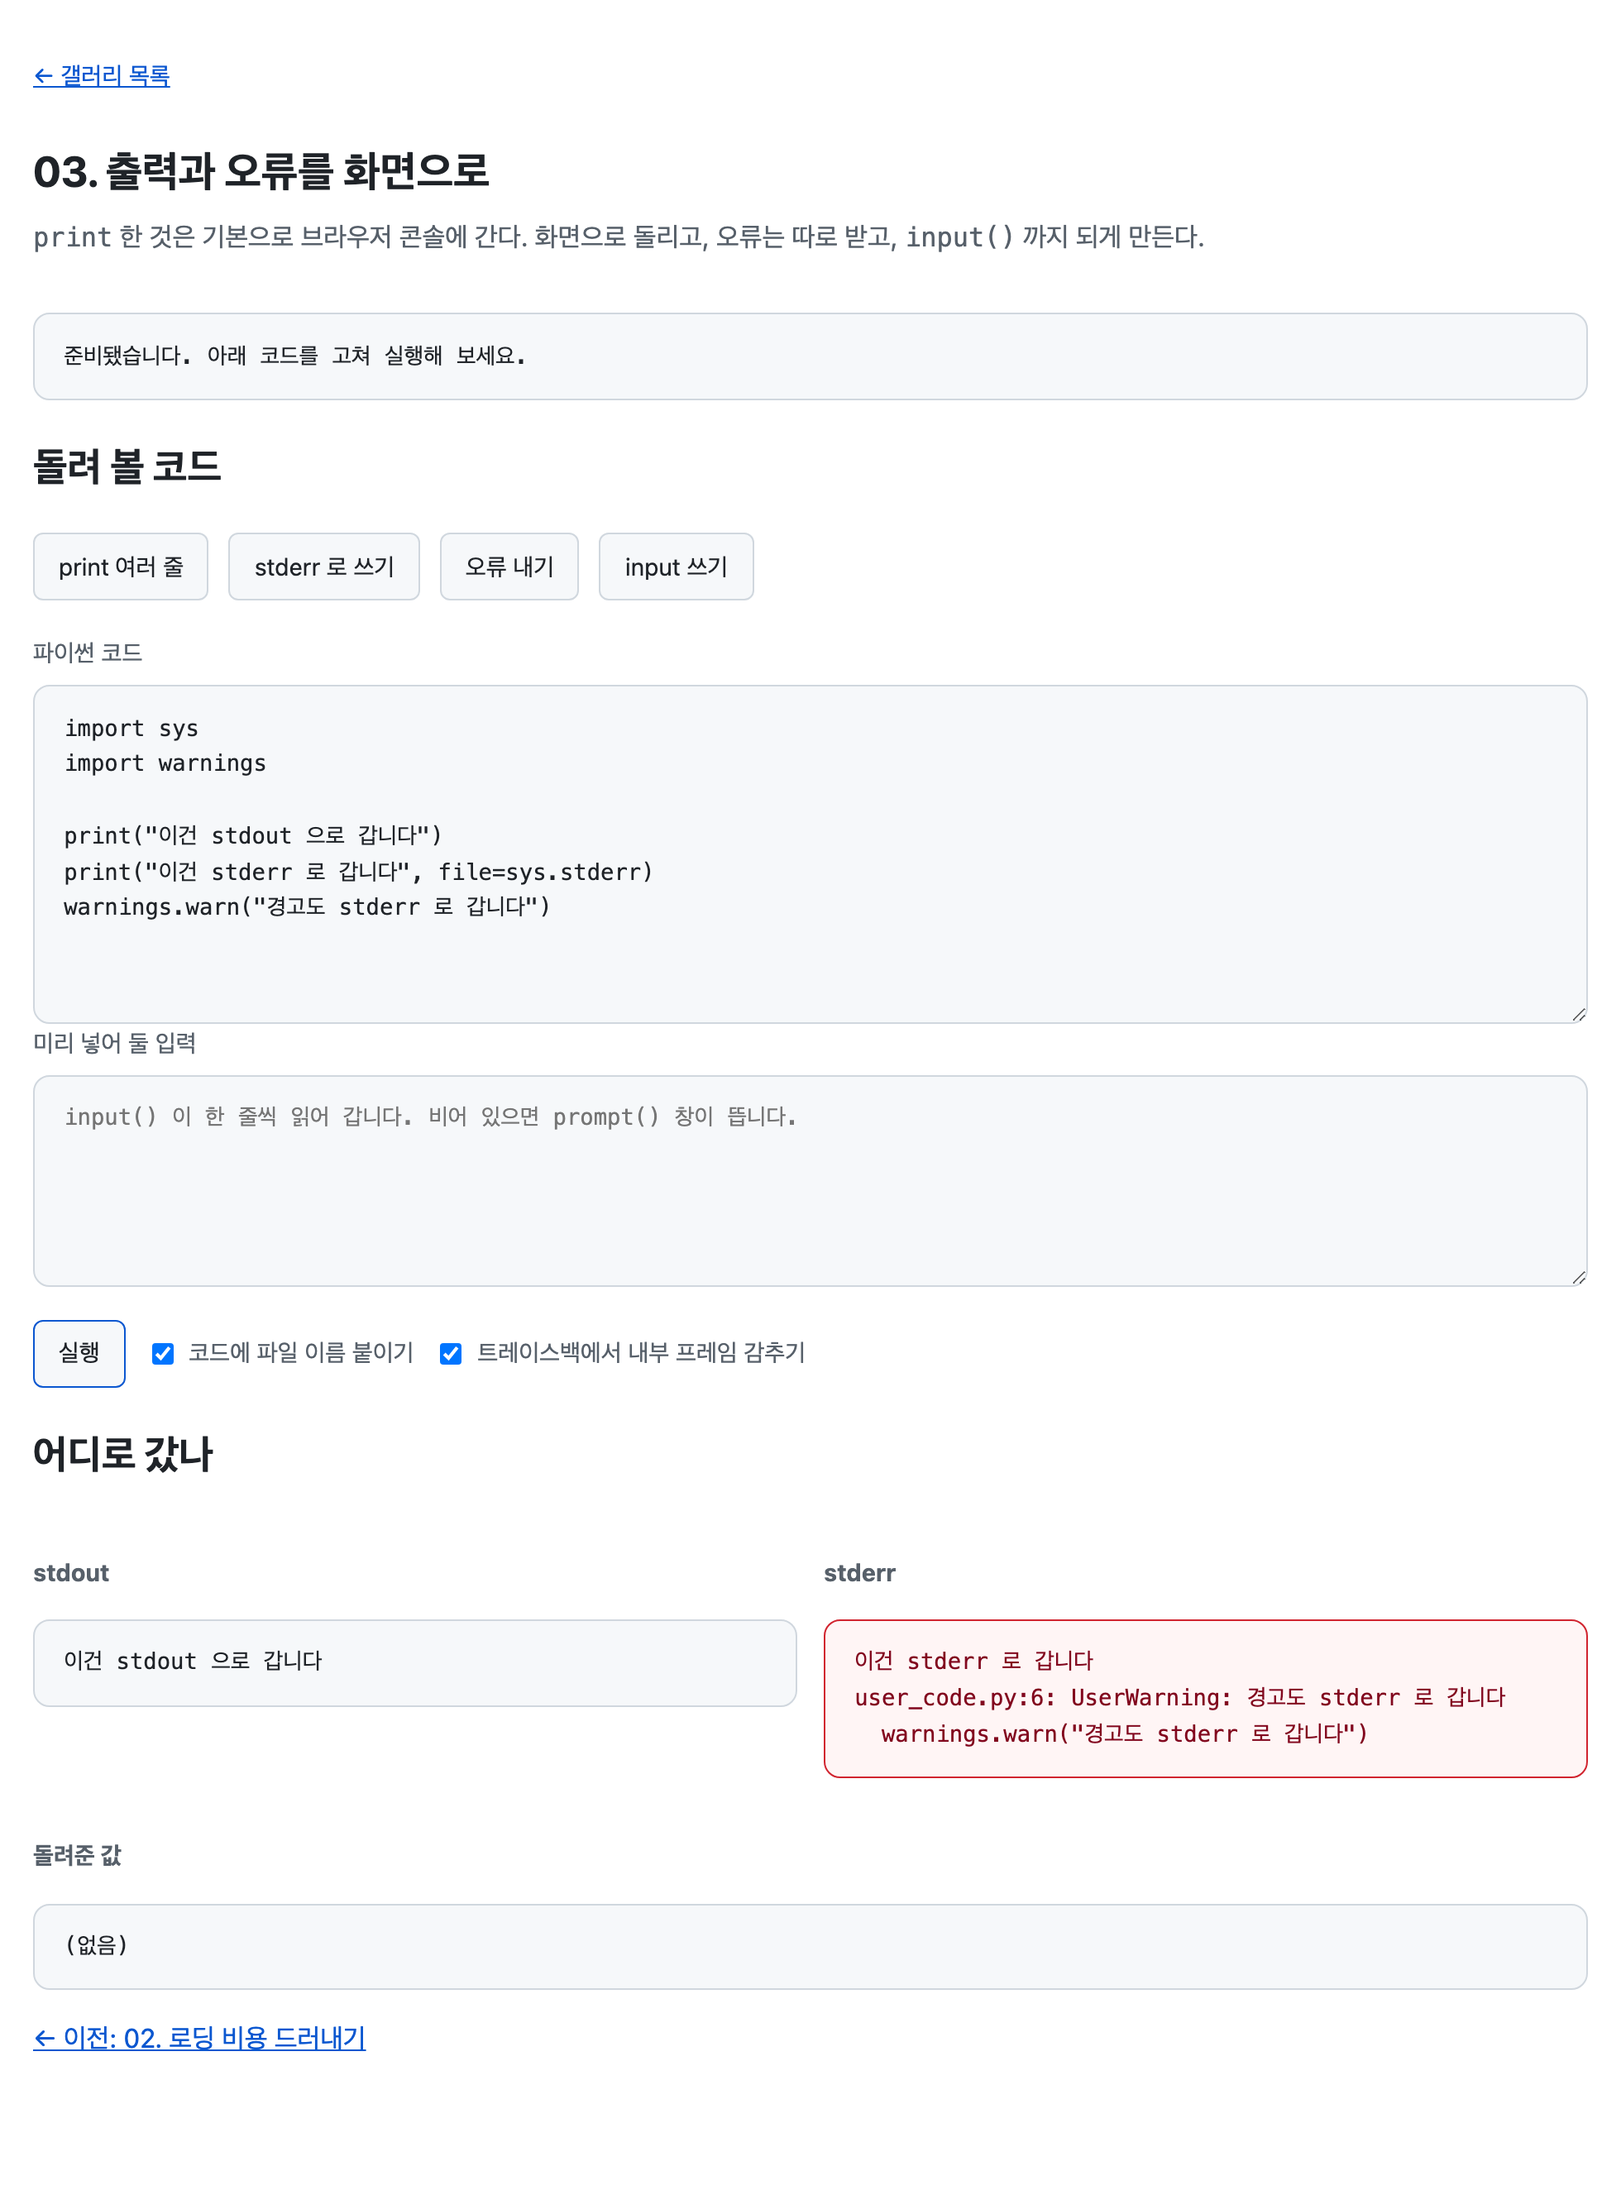
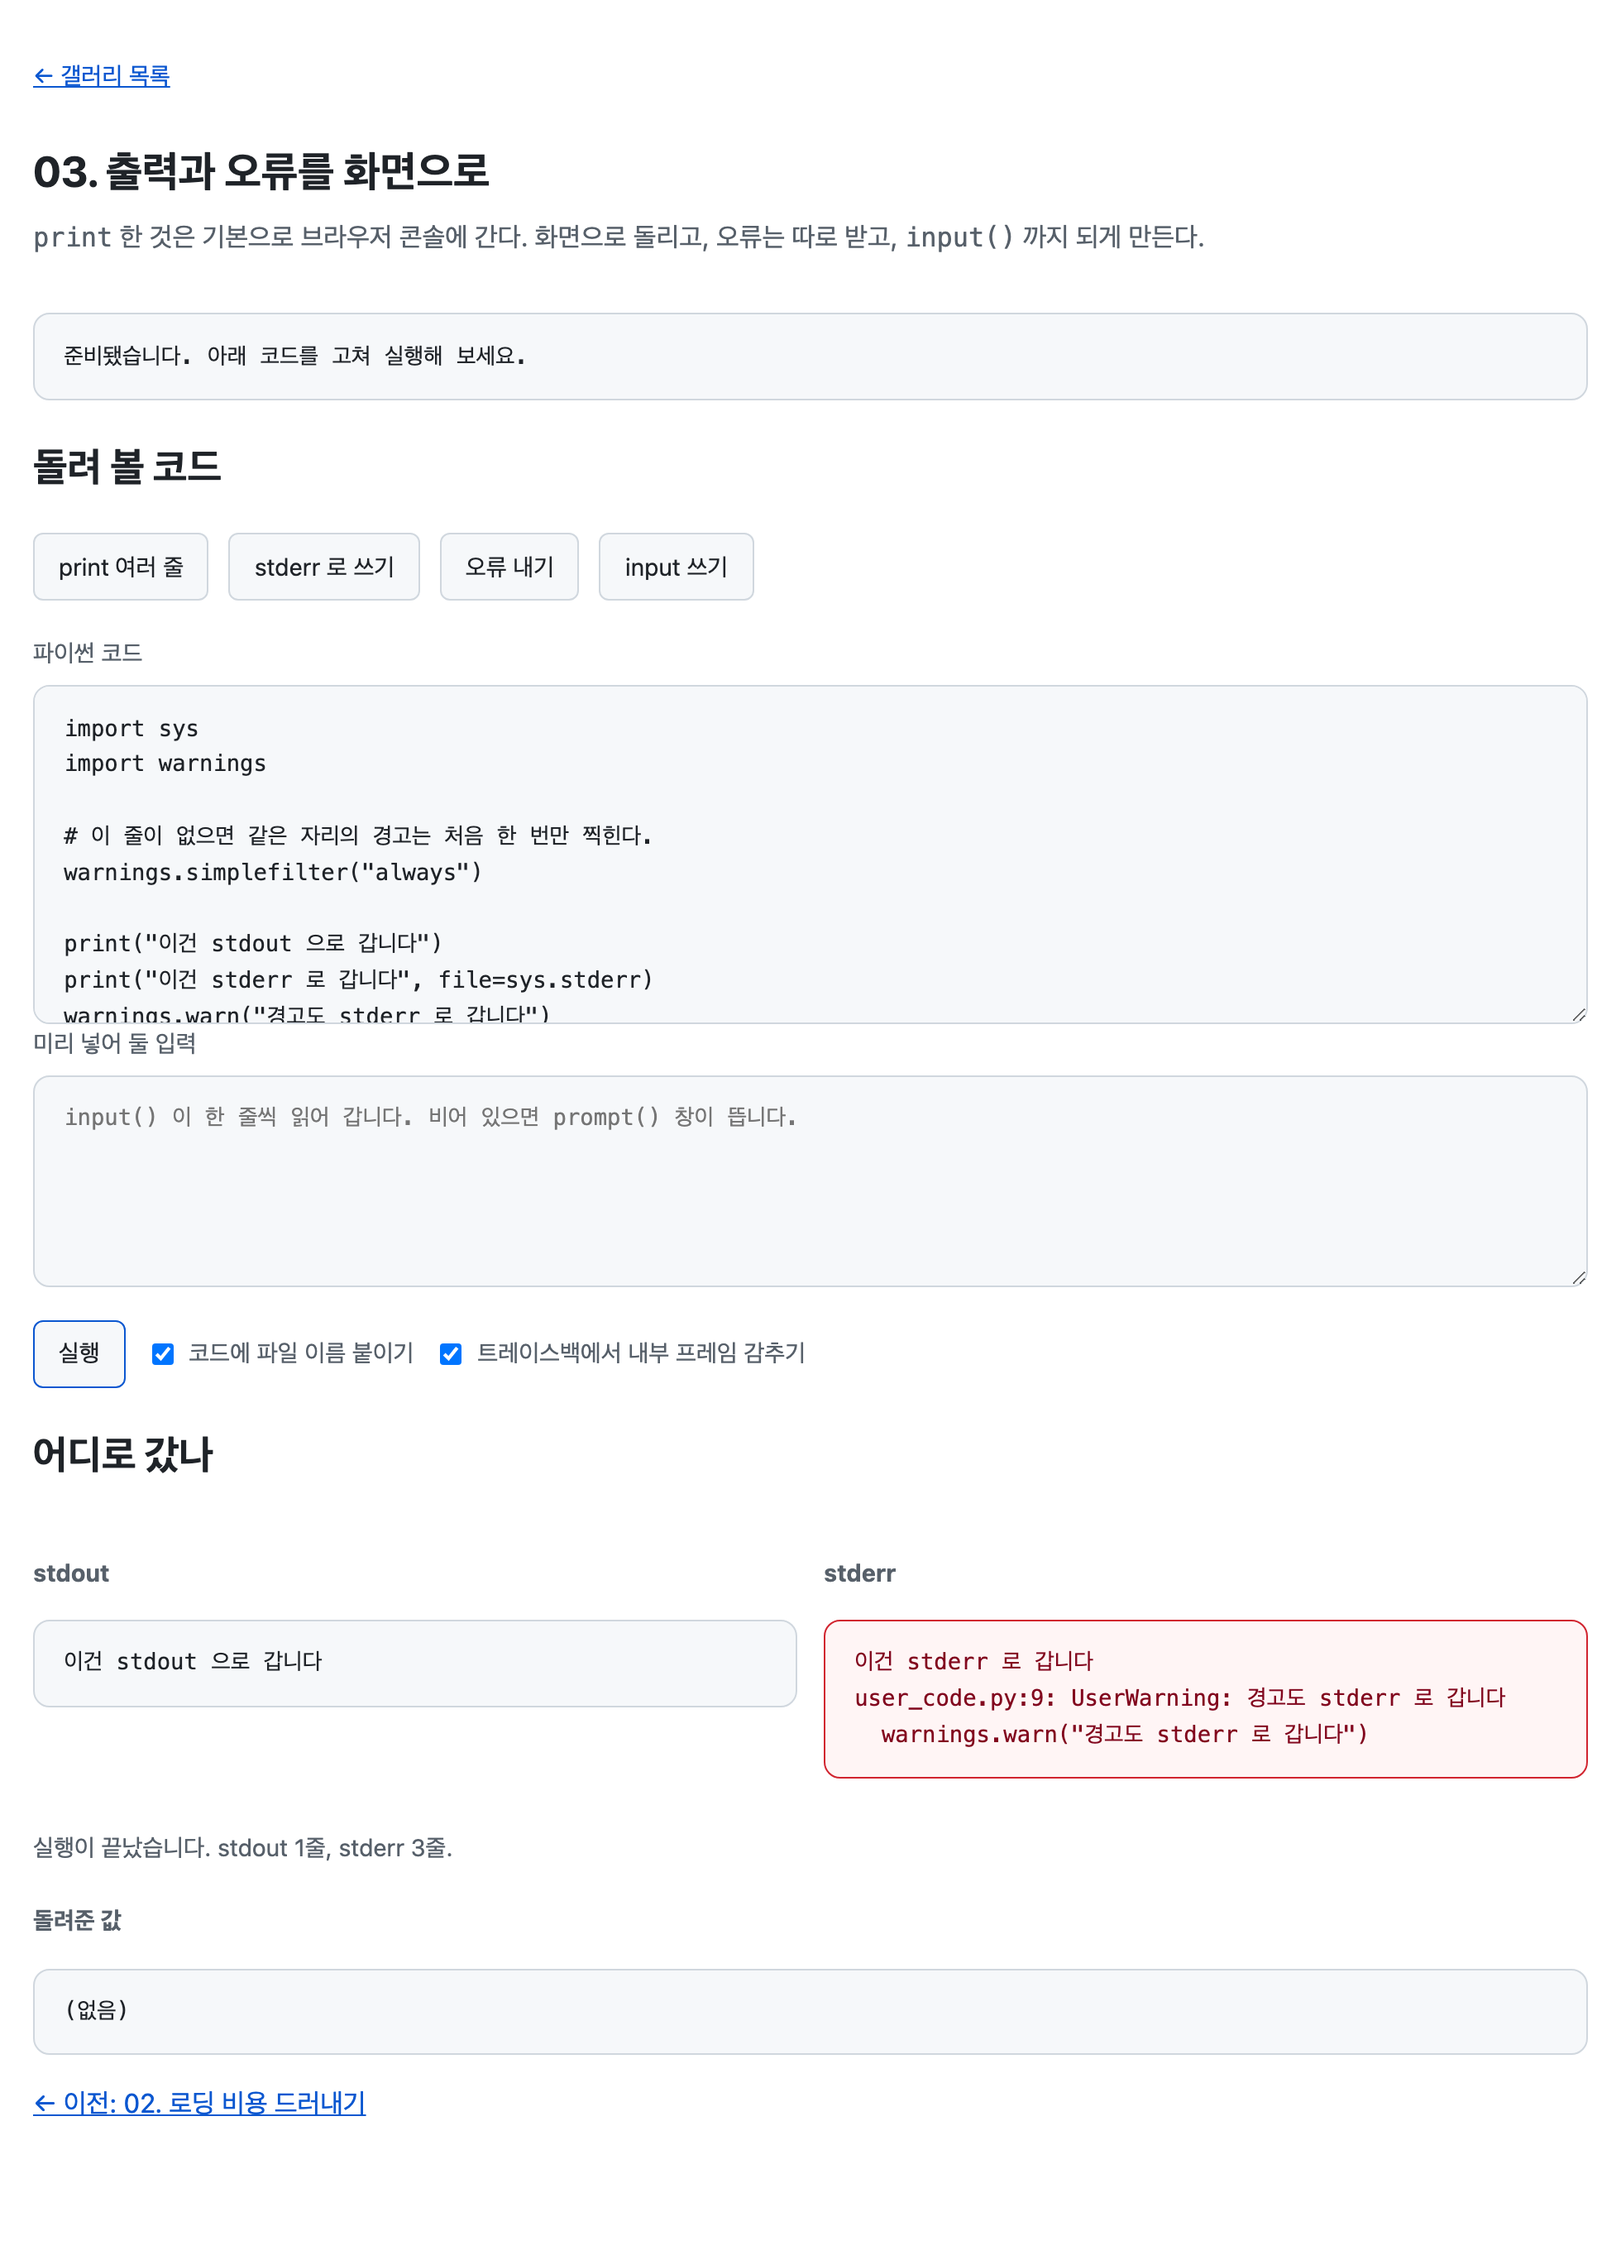
feat(03-stdout-and-errors): 출력과 오류를 화면으로
print 가 콘솔로 가던 것을 화면으로 돌리고, stdout 과 stderr 를 나란히 놓아 어디로 갔는지 보이게 한다. filename 을 주고 안 주고에 따라 트레이스백이 얼마나 달라지는지 토글로 비교한다.

stdin 콜백이 동기라서 사용자에게 물어보고 기다릴 수 없다는 것이 이 예제의 핵심이다. 값을 미리 받아 두거나 브라우저를 멈추는 prompt 를 쓰는 것 말고 길이 없다. 제대로 하려면 워커와 Atomics.wait 이 필요하고 그건 17번과 19번의 주제다.

트레이스백을 다듬을 때 들여쓰기를 보는 이유는 마지막 프레임이 내부 프레임일 때 오류 메시지 자체를 삼키지 않기 위해서다. 소스에 널 바이트를 넣으면 컴파일이 Pyodide 안에서 실패해 사용자 프레임이 하나도 없는데, 그때 무슨 오류인지가 사라진다.

Closes #7

diff --git a/galleries/03-stdout-and-errors/src/main.js b/galleries/03-stdout-and-errors/src/main.js
@@ -19,6 +19,9 @@ print("끝났습니다")
   stderr: `import sys
 import warnings
 
+# 이 줄이 없으면 같은 자리의 경고는 처음 한 번만 찍힌다.
+warnings.simplefilter("always")
+
 print("이건 stdout 으로 갑니다")
 print("이건 stderr 로 갑니다", file=sys.stderr)
 warnings.warn("경고도 stderr 로 갑니다")
@@ -42,6 +45,7 @@ len(name)
 };
 
 const bootBox = document.querySelector('#boot');
+const summary = document.querySelector('#summary');
 const codeInput = document.querySelector('#code');
 const stdinInput = document.querySelector('#stdin');
 const runButton = document.querySelector('#run');
@@ -79,8 +83,10 @@ async function start() {
   samples.addEventListener('click', pickSample);
   runButton.addEventListener('click', () => run(pyodide));
   runButton.disabled = false;
+  codeInput.disabled = false;
 
-  codeInput.value = SAMPLES.print;
+  // 부팅하는 몇 초 동안 사용자가 이미 뭔가 쳤을 수 있다. 그걸 덮어쓰지 않는다.
+  if (codeInput.value.trim() === '') codeInput.value = SAMPLES.print;
   run(pyodide);
 }
 
@@ -102,7 +108,9 @@ function connectStreams(pyodide) {
 }
 
 function append(box, line) {
-  box.textContent += `${line}\n`;
+  // textContent += 는 줄마다 문자열 전체를 다시 만든다. 출력이 길어지면 제곱으로 느려진다.
+  box.append(`${line}\n`);
+  box.scrollTop = box.scrollHeight;
 }
 
 function pickSample(event) {
@@ -113,29 +121,52 @@ function pickSample(event) {
 }
 
 function run(pyodide) {
-  outBox.textContent = '';
-  errBox.textContent = '';
+  // 지우기 전에 떨군다. 지난 실행이 개행 없이 끝냈으면 그 조각이 여기서 흘러나오는데,
+  // 곧바로 지워지므로 이번 출력 앞에 유령처럼 붙는 일이 없다.
+  flushLeftover(pyodide);
+
+  outBox.replaceChildren();
+  errBox.replaceChildren();
   valueBox.replaceChildren();
 
-  pending = stdinInput.value.split('\n').filter((line) => line !== '');
+  // 마지막 개행만 뗀다. 중간의 빈 줄은 입력값으로 쓸 수 있어야 한다.
+  const typed = stdinInput.value.replace(/\n$/, '');
+  pending = typed === '' ? [] : typed.split('\n');
 
-  // 이름을 주면 트레이스백에 소스 줄이 나온다. 안 주면 <exec> 로 잡혀서 줄만 나온다.
-  // 꺾쇠로 감싼 이름은 파일이 아니라는 뜻이라 파이썬이 소스를 찾지 않는다.
+  // 이름을 주면 Pyodide 가 그 이름으로 소스를 linecache 에 등록해 둔다.
+  // 트레이스백은 거기서 줄을 꺼내 온다. 안 주면 <exec> 로 잡히고 등록도 건너뛴다.
   const options = namedToggle.checked ? { filename: 'user_code.py' } : {};
 
   let value;
   try {
     value = pyodide.runPython(codeInput.value, options);
+    valueBox.textContent = value === undefined ? '(없음)' : String(value);
   } catch (error) {
     showTraceback(error);
-    return;
-  }
-
-  try {
-    valueBox.textContent = value === undefined ? '(없음)' : String(value);
   } finally {
     value?.destroy?.();
+    announce();
   }
+}
+
+/**
+ * 스크린 리더에는 줄마다 읽어 주는 대신 끝나고 한 번만 알린다.
+ * 출력이 몇만 줄이 될 수 있어서, 스트림 칸 자체를 live region 으로 두면 그만큼 읽는다.
+ */
+function announce() {
+  const count = (box) => box.textContent.split('\n').filter(Boolean).length;
+  summary.textContent = `실행이 끝났습니다. stdout ${count(outBox)}줄, stderr ${count(errBox)}줄.`;
+}
+
+/**
+ * 개행 없이 남은 출력 조각을 흘려보낸다.
+ *
+ * batched 는 개행에서만 흘려보내므로 print("a", end="") 로 끝나면 "a" 가 버퍼에 남는다.
+ * setStdout 을 다시 걸어도 sys.stdout.flush() 를 불러도 비워지지 않는다.
+ * 개행을 하나 찍어 주는 것이 유일한 방법이다.
+ */
+function flushLeftover(pyodide) {
+  pyodide.runPython('print()');
 }
 
 /**
@@ -146,8 +177,8 @@ function run(pyodide) {
  */
 function showTraceback(error) {
   const text = trimToggle.checked ? trimInternalFrames(error.message) : error.message;
-  const box = renderPythonError(errBox, text);
-  box.textContent = `${text}\n\n예외 종류: ${error.type ?? '(알 수 없음)'}`;
+  renderPythonError(errBox, { message: `${text}\n\n예외 종류: ${error.type ?? '(알 수 없음)'}` });
+  valueBox.textContent = '(오류가 나서 값이 없습니다)';
 }
 
 /**
@@ -157,21 +188,27 @@ function showTraceback(error) {
  * 붙는다. 남의 코드 이야기라 읽는 사람에게는 잡음이다.
  */
 function trimInternalFrames(message) {
-  const lines = message.split('\n');
   const kept = [];
   let skipping = false;
 
-  for (const line of lines) {
+  for (const line of message.split('\n')) {
     const frame = line.match(/^ {2}File "([^"]+)"/);
     if (frame) {
       skipping = frame[1].includes('_pyodide/_base.py');
       if (skipping) continue;
+      // 다른 파일의 프레임이 나왔으면 건너뛰기를 멈춘다.
     } else if (skipping) {
-      // 프레임 아래 딸린 소스 줄과 캐럿까지 함께 버린다.
-      continue;
+      // 프레임에 딸린 소스 줄과 캐럿은 네 칸 이상 들여쓰기돼 있다. 거기까지만 버린다.
+      // 들여쓰기가 없는 줄은 예외 메시지이므로 남겨야 한다. 안 그러면
+      // 마지막 프레임이 내부 프레임일 때 정작 무슨 오류인지가 사라진다.
+      if (/^ {4}/.test(line)) continue;
+      skipping = false;
     }
     kept.push(line);
   }
 
   return kept.join('\n');
 }
+
+// ExceptionGroup 의 트레이스백은 프레임 줄이 "  |   File ..." 모양이라 위 정규식에
+// 걸리지 않는다. 내부 프레임이 그대로 보이지만 메시지가 사라지지는 않는다.

diff --git a/galleries/03-stdout-and-errors/index.html b/galleries/03-stdout-and-errors/index.html
@@ -27,7 +27,7 @@
           <button type="button" data-sample="input">input 쓰기</button>
         </div>
         <label for="code">파이썬 코드</label>
-        <textarea id="code" class="code" rows="8" spellcheck="false"></textarea>
+        <textarea id="code" class="code" rows="8" spellcheck="false" disabled></textarea>
 
         <label for="stdin">미리 넣어 둘 입력</label>
         <textarea
@@ -54,13 +54,14 @@
         <div class="streams">
           <div>
             <h3>stdout</h3>
-            <pre class="output stream" id="out" role="status"></pre>
+            <pre class="output stream" id="out"></pre>
           </div>
           <div>
             <h3>stderr</h3>
-            <pre class="output stream err" id="err" role="status"></pre>
+            <pre class="output stream err" id="err"></pre>
           </div>
         </div>
+        <p class="hint" id="summary" role="status"></p>
         <h3>돌려준 값</h3>
         <pre class="output" id="value" role="status"></pre>
       </section>
